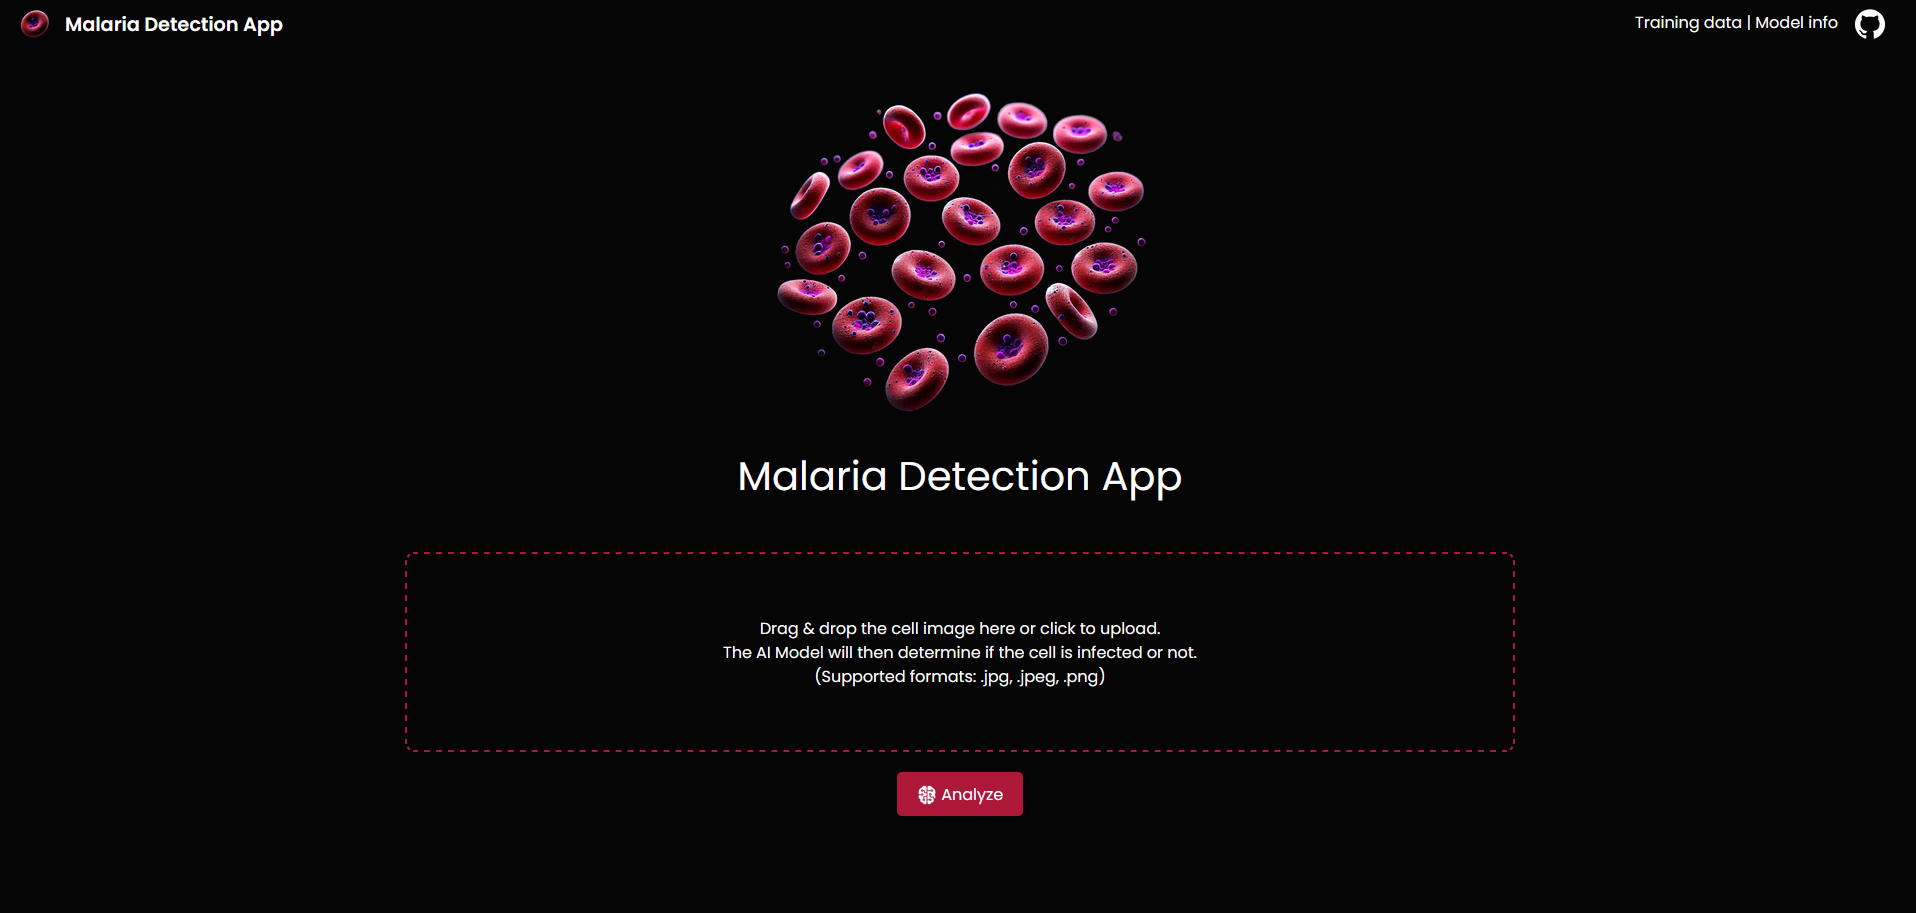
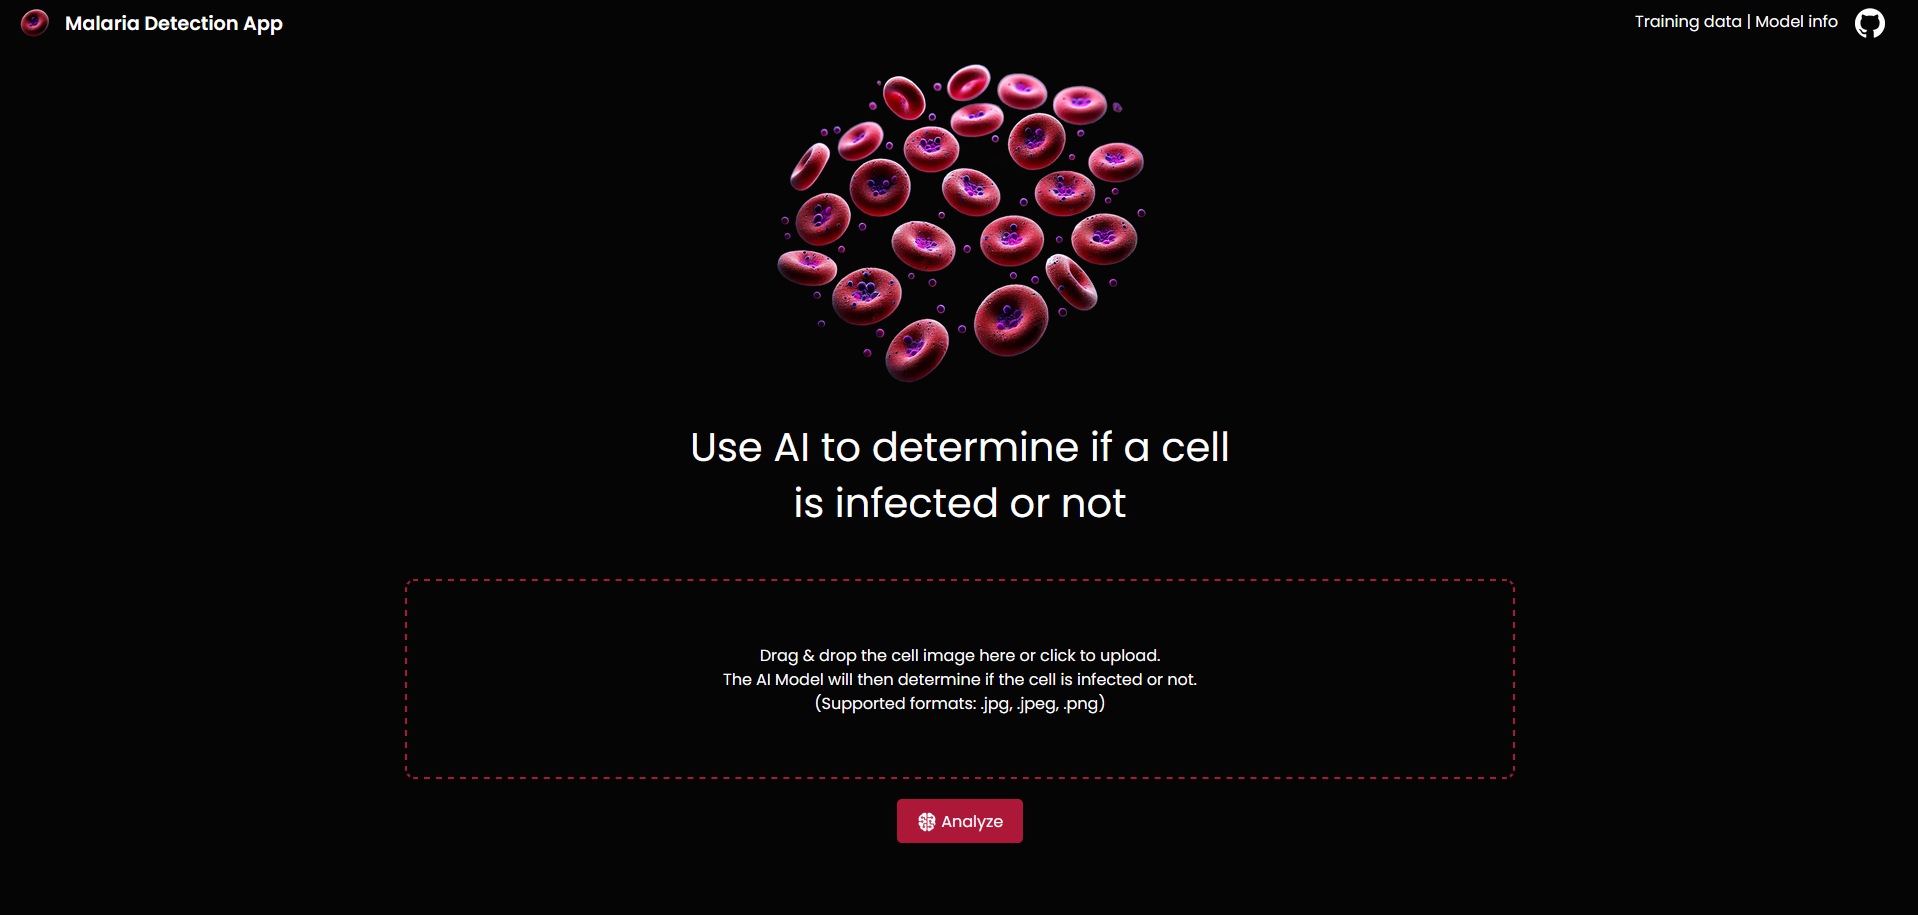
Updated index + index screenshot

diff --git a/src/templates/index.html b/src/templates/index.html
@@ -8,7 +8,8 @@
         <div class="col-md-12 text-center">
             <div class="container">
                 <img src="{{ url_for('static', filename='img/cells.webp') }}" alt="Site Logo" style="max-width: 400px; height: auto; margin-bottom: 0px;">
-                <h1>Malaria Detection App</h1><br>
+                <h1>Use AI to determine if a cell</h1>
+                <h1>is infected or not</h1><br>
 
                 <!-- <h4>Drag and drop an image to let the AI model detect if it is infected with malaria or not</h4> -->
 
